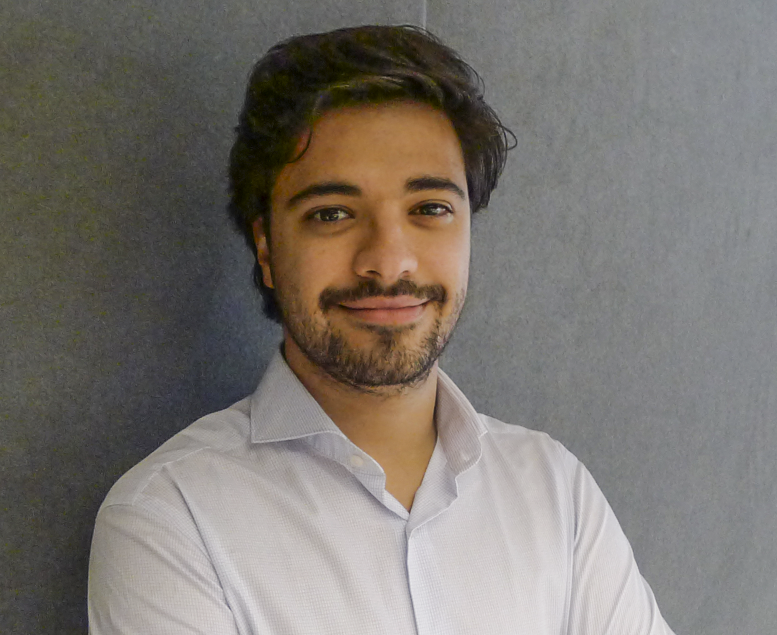
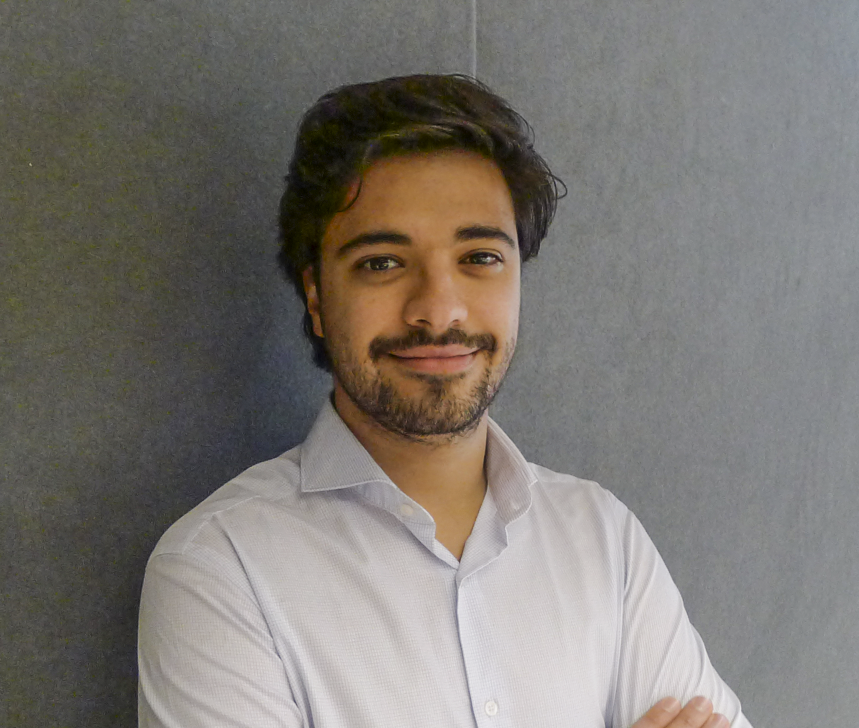
fix: updated hero picture and style

diff --git a/assets/scss/_content.scss b/assets/scss/_content.scss
@@ -102,6 +102,8 @@
   width: 20rem;
   height: auto;
   border-radius: 50%;
+  filter: grayscale(1);
+  border: 1px solid $alt-fg-color;
 
   @media only screen and (max-width: 768px) {
     width: 10rem;
